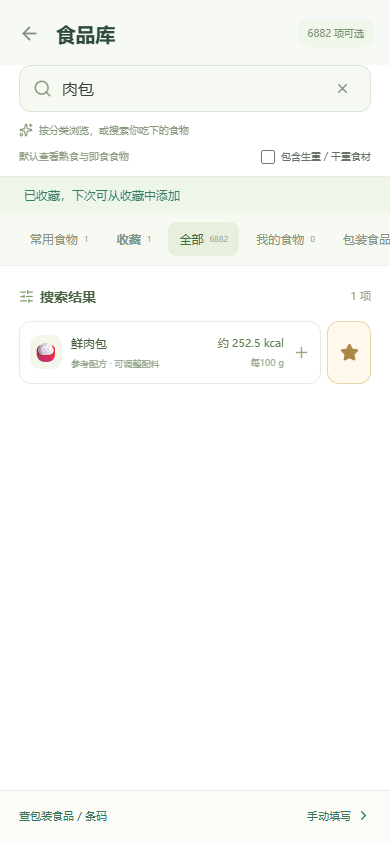
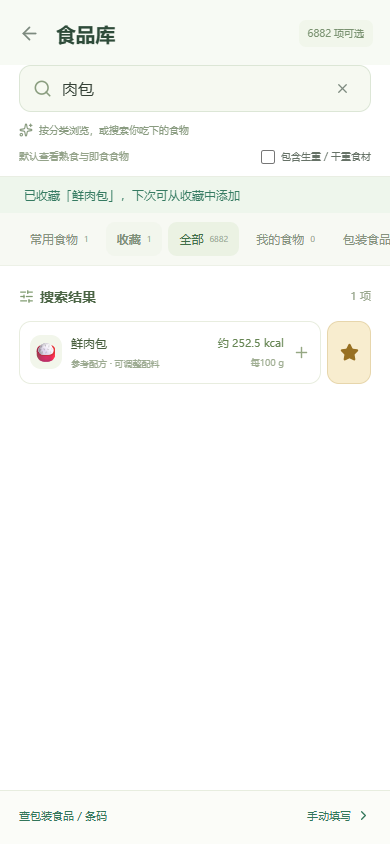
chore(release): 准备0.11.20测试版与交互回归说明

Changed region(s): [[0.1846, 0.2156, 0.6154, 0.2464], [0.8308, 0.3697, 0.9538, 0.4621]]

diff --git a/README.md b/README.md
@@ -2,9 +2,11 @@
 
 想对照源码学习，从 [源码学习指南](docs/development-guide.md) 开始：包含目录分工、技术用途、照片/文字记餐调用链、数据库事务和安卓工程；再看 [前端逐步讲解](docs/frontend-guide.md)。关键源码旁已补中文注释，可边读指南边打开对应函数。
 
-返回、日历、资料同步、收藏等局部说明已迁到源码注释；部署、模型接入、数据来源与许可等重要说明保留。当前IndexedDB结构版本5，备份格式版本10，手环预算采用超出常规活动的差额规则。
+返回、日历、资料同步、收藏等局部说明已迁到源码注释；部署、模型接入、数据来源与许可等重要说明保留。当前IndexedDB结构版本6，备份格式版本11，手环预算采用超出常规活动的差额规则。
 
 ## 当前版本与历史更新
+
+**0.11.20-test（versionCode 43）：照片随餐次保存，统一操作反馈。** 餐次缩略图可点开、放大，多图可以切换；编辑保留，删除可撤销，再记一餐不带旧照片。v11备份包含压缩照片，兼容旧格式。常用库收藏、备份、模型切换、删除与目标保存补齐进行中/成功/失败反馈，弹窗内提示可见可点。[照片说明](docs/meal-photos.md) · [交互检查](docs/interaction-feedback.md)。
 
 **0.11.19-test（versionCode 42）：重做整个设置页。** 首页集中展示实际选用模型、食物与数据、版本与说明入口，详细教程、备份和更新操作按需打开。手机模型管理支持直接切换已有型号，沿用Key且不测试模型；逐层返回保留入口焦点与滚动位置。[设置说明](docs/web-settings.md)。
 
@@ -184,7 +186,7 @@ QWEN_MODEL=qwen3.7-flash
 - 区间统一按每 100 g 保存，按食物重量换算整份。例如参考粥普通档 60～90 kcal/100 g，300 g 的区间为 180～270 kcal，记账中值为 225 kcal。这是应用参考情景，不是所有粥的标准，更不是模型测量精度。历史保存当时的档位；下一次新识别同名食物重新默认普通档。
 - 真实识别的 AI 缺库条目只有在确认保存后，才与餐食一同写入个人估算库；未保存的草稿和 Mock 数据不会污染这份库。库里的数值始终标注估算，不会加入 USDA 数据或共享给别人。
 - 体重页每天记录一次体重，支持修改、删除和设置目标。
-- 设置页支持 JSON 导出与完整恢复。当前备份版本10，兼容版本1～9；保留个人食品与收藏、日常单位估重、餐食标签与摄入份量、个人资料、目标快照、运动、饮水和个人估算库。恢复前校验并显示数量，确认后事务性替换。
+- 设置页支持 JSON 导出与完整恢复。当前备份版本11，兼容版本1～10；保留个人食品与收藏、日常单位估重、餐食标签与摄入份量、个人资料、目标快照、运动、饮水和个人估算库。恢复前校验并显示数量，确认后事务性替换。
 - 浏览器清理、隐私模式、换设备、换浏览器或换网址会影响本地数据。`127.0.0.1` 与 `localhost`、不同端口也是不同存储空间；定期导出备份。
 - 图片只用于本次识别，应用不把照片保存进 IndexedDB、上传目录或日志。Gemini 使用内联图片及 `store:false`；免费服务仍可能用输入和输出改进 Google 产品。
 

diff --git a/docs/interaction-feedback.md b/docs/interaction-feedback.md
@@ -1,0 +1,18 @@
+# 操作反馈检查
+
+本轮按页面与操作路径核查，区别导航、筛选等立即可见的变化，以及收藏、保存、删除、连接等需要等待结果的操作。不会给每个导航按钮都增加成功提示。
+
+- 常用食物库：星标/取消星标显示所操作食物名称，数据库提交后才改变状态；进行中显示转圈并阻止重复提交。保存失败保持原状态并允许重试。移除与撤销继续保留，并让全局提示出现在当前弹窗内。
+- 食品选择器：收藏提示包含具体名称，正在操作的星形按钮显示加载状态，已收藏有填充图标与底色，保留`aria-pressed`和错误说明。
+- 餐次：保存已有等待状态与失败草稿保护；补上重复保存防护。删除有等待状态，成功后可撤销，照片随记录一起恢复。打开编辑、复用、查看图片均有对应可见界面。
+- 模型：切换时显示进行中；切换成功显示文字反馈；失败还原原选择。原生设置重新读取实际状态后才报告切换成功。原有测试/保存/删除/连接的操作状态、错误和敏感信息保护继续保留，连接补上重复提交防护。
+- 设置：备份导出、读取、恢复分别显示等待文字，处理时禁用重复操作和关闭入口。个人估算删除显示对应条目的加载状态，错误在当前弹窗内可见。
+- 包装库：保留条码查询、相片读码、保存、移除的加载和结果说明；新增全局提示以避免滚动后看不到结果，保存按钮显示进行中，避免旧错误掩盖新成功。
+- 体重与目标：补上目标保存、删除的等待状态与重复提交防护，保存期间禁用对应输入，避免结果返回时清掉新输入。目标页、饮水和运动已有提交状态、结果与撤销路径，纳入浏览器回归。
+- 取景、日历、日期选择、份量、分组、主导航：保留现有选中/展开/页面变化与加载、错误提示。统一可用按钮的按压阴影和键盘焦点；按压不使用会改变包含块的滤镜，以免破坏食物卡片的整卡详情入口。
+
+原全局toast在原生`dialog.showModal()`下方，即使z-index很大仍被顶层遮挡。`AppToast`随弹窗开关移动到当前最上层dialog内部，进入弹窗焦点循环；普通页面仍放在body。弹窗内提示占独立布局行，避免盖住保存、加入或关闭按钮。长食物名称可换行，关闭与撤销保留可点击空间。
+
+回归不只断言文字存在，还通过`elementFromPoint`检查提示位于实际点击层，点击撤销验证数据恢复；通过模拟慢存储、QuotaExceededError检查忙碌状态、重复点击与失败不误报成功。对应`PersonalFoodFeedback.test.ts`、`meal-photos-feedback.spec.ts`及现有`interaction`、`personal-foods`、`food-library`、`settings`、`personal-models`、`packaged-food`等浏览器用例。
+
+本版验证：490项单元/接口测试、20项原生策略检查；Chrome手机/桌面与Edge覆盖156项源页面场景，最终独立APK资源另验证15项场景。真实Android安装、相机硬件、软键盘与系统分享仍需真机验收。

diff --git a/docs/wellness.md b/docs/wellness.md
@@ -6,7 +6,7 @@
 
 包装食品按原标签与实际摄入计算，同样进入已知摄入与剩余预算；摄入量或热量仍缺失时继续提示。[包装食品教学](packaged-food.md)
 
-当前支持俯卧撑按个数记录和手环当天累计。IndexedDB结构版本5，备份格式10，可读1～10。俯卧撑与手环规则已写入 [wellness.ts](../packages/shared/src/wellness.ts) 和 [PushupQuickEntry.vue](../packages/web/src/components/PushupQuickEntry.vue)；手环只增加超过常规活动预留的差额，原始活动读数另行保存。
+当前支持俯卧撑按个数记录和手环当天累计。IndexedDB结构版本6，备份格式11，可读1～11。俯卧撑与手环规则已写入 [wellness.ts](../packages/shared/src/wellness.ts) 和 [PushupQuickEntry.vue](../packages/web/src/components/PushupQuickEntry.vue)；手环只增加超过常规活动预留的差额，原始活动读数另行保存。
 
 运动目录已从6项扩充到32项，按5类选择，包含跳绳、球类、游泳、瑜伽和力量训练。原有编号和MET不变，新项目沿用活动能量公式；详见[项目与来源教学](catalog-expansion.md)。
 
@@ -75,7 +75,7 @@
 
 每个日期第一次保存记录时冻结该日资料、目标和体重来源。修改资料更新今日预算，已有其他历史日期保持当时快照。补充或删除体重会更新称重当天与今日的体重计算来源，不改其他历史日期或运动记录当时的体重与 kcal。不存在对应历史体重时，不借用未来体重；未保存的日期预算显示为当前资料预览，不能冒充历史实测。
 
-备份当前为版本10，包含本页记录、个人资料与每日计划，还包括包装标签、份量、个人食品和收藏；可读版本1～10，旧格式缺少的表补空。恢复是完整替换，旧文件可能清空当前文件不含的新增数据，因此先预览并确认。任一步失败整体回滚；Key、访问凭证和照片不进入备份。
+备份当前为版本11，包含本页记录、个人资料与每日计划，还包括包装标签、份量、个人食品和收藏；可读版本1～11，旧格式缺少的表补空。恢复是完整替换，旧文件可能清空当前文件不含的新增数据，因此先预览并确认。任一步失败整体回滚；备份包含已保存的餐次照片；Key和访问凭证仍不进入备份。
 
 ## 验证
 

diff --git a/docs/development-guide.md b/docs/development-guide.md
@@ -122,7 +122,7 @@ form.append('image', file)
 
 浏览器生成 multipart boundary，不能手动设置 Content-Type。客户端用 AbortController 限时，服务端上游也有限时；都需要 finally 清理定时器或并发令牌。
 
-前端压缩目标为最长边1280px、文件不超过1MB；服务端另限上传2MB、解码1000万像素，核对签名和MIME，拒绝动画后重编码。两个限制属于不同阶段。照片只参与本次内存流程，不进入餐食表和JSON备份。
+前端压缩目标为最长边1280px、文件不超过1MB；服务端另限上传2MB、解码1000万像素，核对签名和MIME，拒绝动画后重编码。两个限制属于不同阶段。照片压缩后由用户确认保存餐次，进入独立 mealPhotos 表和 v11 JSON 备份；服务端仍仅在内存处理图片。
 
 prepareRecognition 对 foods 做 map：每项保留自己的估重，不能平均整盘重量，也不能把一道菜的可见配料再次记成摄入。包装标签优先；普通条目在 matchedEntry 中先配方，再基础库，再同名个人估算和本次AI候选。旧个人单值没有有效热量三档时，本次有效三档可以优先。
 
@@ -195,7 +195,7 @@ await database.transaction('rw', [database.meals, database.estimatedFoods,
 
 保存食品库与保存一餐是独立动作。再次添加个人食品时复制并生成新ID；收藏不直接增加摄入。公共库项目移除后仍可用收藏快照或当前记录快照。
 
-当前 **IndexedDB结构版本5，JSON备份格式版本10**，分别看 ShikeDatabase 与 backupSchema。数据库名称 shike-local-v1 是既有名字，不是当前结构版本。备份可读1～10，先统一转10，检查重复主键、同日重复累计等，再事务性替换；旧备份缺表补空，因此恢复是整体替换，不是合并。
+当前 **IndexedDB结构版本6，JSON备份格式版本11**，分别看 ShikeDatabase 与 backupSchema。数据库名称 shike-local-v1 是既有名字，不是当前结构版本。备份可读1～11，先统一转11，检查重复主键、同日重复累计等，再事务性替换；旧备份缺表补空，因此恢复是整体替换，不是合并。
 
 数据按origin隔离，协议、主机、端口变化均可能换存储空间。localhost与127.0.0.1不共享记录，电脑和手机也不自动同步。
 

diff --git a/docs/meal-photos.md b/docs/meal-photos.md
@@ -1,0 +1,15 @@
+# 餐次照片
+
+从0.11.20-test起，拍照识别保存餐次后，记录中显示照片缩略图。点击可查看、放大和还原；图片聊天保存的一餐最多保留最近3张相关图片，可前后切换。保留的是识别用压缩JPEG，最长边1280px、单张不超过1MB，已通过Canvas重编码去除EXIF/GPS；不是相机的原始大文件。
+
+照片仅保存在当前设备，不自动同步或写入系统相册。模型调用仍按已有流程将图片交给用户选定的提供商，服务端不新增照片存储。旧版本餐次没有保存照片，无法补回。
+
+编辑已有餐次保留原照片；更换照片或点击“移除照片”在确认保存后生效。取消编辑不写入。复用餐次只带入食物与份量，不会把旧照片当成本餐照片。删除餐次同时删除照片，成功提示里的“撤销”恢复两者。
+
+IndexedDB升级到结构6，新增`mealPhotos`表（`id,mealId`），餐次数据不嵌入Base64，首页只读取照片所属餐次的索引。仅当前日期的照片组件订阅并加载对应图片，打开大图不调用模型。照片保存、替换、删除与餐次在同一事务内执行，存储失败回滚；多图用独立`position`保留顺序。
+
+JSON备份升级为v11，包含照片。导入兼容v1～v10，旧格式补空照片表；完整恢复会替换已有照片，因此界面明确提醒先导出当前备份。备份文件上限100MB，导入和导出均检查UTF-8大小。校验拒绝远程URL、非JPEG、超过1MB的单图、重复ID/序号、孤立照片与每餐超过3张。
+
+回归入口：`packages/web/tests/meal-photos.test.ts`验证事务、失败回滚、删除、备份与v5原地升级；`tests/e2e/meal-photos-feedback.spec.ts`验证刷新查看、放大、编辑、复用、删除撤销与真实JSON往返；`tests/e2e/meal-assistant.spec.ts`覆盖图片直接保存及转详细编辑的两条路径。测试使用合成照片和Mock/模拟原生插件，不代表真实模型准确性或Android真机验收。
+
+本版验证：490项单元/接口测试、20项原生策略检查；Chrome手机/桌面与Edge覆盖156项源页面场景，最终独立APK资源另验证15项场景。真实Android安装、相机硬件、软键盘与系统分享仍需真机验收。

diff --git a/docs/meal-assistant.md b/docs/meal-assistant.md
@@ -10,7 +10,7 @@
 4. 预览中可修改数量、移除食物；需要换食品库、改每100g营养或核对包装时，点击“详细编辑”，转到现有餐食编辑面板。
 5. 点击“确认保存”才写入IndexedDB。重复点击不会创建多条。成功后清掉待提交草稿；再描述食物会建立新记录，避免把上次早餐重复记账。
 
-关闭悬浮窗再打开，同次运行中的聊天和草稿还在；刷新或退出会清掉聊天草稿，已经保存的饮食记录保留。聊天内容不加入饮食备份，导出仍只包含记录、设置和食品快照。
+关闭悬浮窗再打开，同次运行中的聊天和草稿还在；刷新或退出会清掉聊天草稿，已经保存的饮食记录保留。聊天文字不加入饮食备份；确认保存时，本餐相关的最多3张压缩照片进入餐次照片表和v11备份。
 
 ## 按时间预选餐次
 
@@ -71,7 +71,7 @@ const request = {
 
 安卓走Capacitor插件的`describeMeal`，Key沿用Keystore配合AES-GCM的本机加密配置。原生层只向白名单平台发送请求，不向网页返回Key；同样共用请求计数、单并发、超时、响应大小限制和禁止重定向策略。兼容平台使用Chat Completions，GLM旧型号保持提示词加结果校验；Gemini用Interactions、结构化输出及`store:false`。不创建云端上传文件，不自动轮换Key或转付费模型。模型费用仍以所选服务商为准。
 
-服务商会收到当前描述、未保存草稿和最近上下文，应按其政策处理；App不把聊天和照片写入本地记录数据库或备份。Vue以纯文本显示模型回复，不执行模型返回的HTML、脚本或工具指令。保存动作始终由用户按钮触发。
+服务商会收到当前描述、未保存草稿和最近上下文，应按其政策处理；聊天问答只留在会话内存；用于当前记餐草稿的最近3张压缩照片，在用户确认保存后写入本机餐次照片表和v11备份。新建一餐不会沿用上一餐照片。Vue以纯文本显示模型回复，不执行模型返回的HTML、脚本或工具指令。保存动作始终由用户按钮触发。
 
 ## 图片与连续问答
 

diff --git a/docs/camera-guide.md b/docs/camera-guide.md
@@ -14,7 +14,7 @@
 
 右上角问号提供拍摄说明及实际采集尺寸，设备支持时启用连续自动对焦；存在多个摄像头时可切换。取景铺满可用区域，不拉伸图像。设备报告支持连续补光时才显示补光灯。辅助框是构图提示。照片按屏幕可见范围中心裁切，与取景保持一致，拍照前应让所需食物和完整营养字段留在画面内。相机权限被拒绝、没有相机或相机被占用时，会显示具体提示，并保留系统相机与相册入口。
 
-取景页进入后台时停止视频轨道，回来后点击「继续拍摄」。退出取景页也关闭轨道，不在后台继续采集。捕获的照片只在当前编辑流程的内存中保留，不写入饮食历史、备份或照片库。
+取景页进入后台时停止视频轨道，回来后点击「继续拍摄」。退出取景页也关闭轨道，不在后台继续采集。拍摄时照片仅在内存处理；确认保存餐次后，经压缩、去除 EXIF/GPS 的照片保存在本机独立表中，可从餐次缩略图查看并放大，也随 v11 备份导出。不会自动写入系统相册。旧记录未保存的照片无法补回。
 
 APK内的页面和食物库已经内置，电脑可关闭。AI识别和首次查询OFF仍需要手机联网；配置入口为设置中的手机自配Key。网页通过局域网HTTP访问时，浏览器可能禁止实时相机，此时使用系统相机或相册；APK使用本地HTTPS来源，不依赖电脑IP。
 

diff --git a/docs/packaged-food.md b/docs/packaged-food.md
@@ -12,7 +12,7 @@
 4. 展开“核对／修正标签数字”，可更正能量、原单位、蛋白质、脂肪、碳水、每份大小和整包净含量。未拍到或读不清的字段留空；不要把 NRV%／%DV 当成克数或热量填入。
 5. 选择餐次、日期并保存。历史记录保留当时的标签与摄入份量，可继续编辑；修改其他食物库数据不会改变它。
 
-只拍商品正面或广告文字，不能可靠获得完整营养表，AI 不凭品牌记忆补营养值；此时提示补拍或手填。条形码请走独立「包装食品库」入口。照片仅在本次内存中使用，不进入历史和备份。
+只拍商品正面或广告文字，不能可靠获得完整营养表，AI 不凭品牌记忆补营养值；此时提示补拍或手填。条形码请走独立「包装食品库」入口。条码照片仅用于本机读码；从记餐编辑器识别营养表并保存餐次时，压缩照片会保留到餐次历史和 v11 备份。
 
 普通餐食继续使用食物库／参考配方／带假设的 AI 三档估算。包装走独立的“包装标签 · AI 读取”分支，优先于同名食物库，不套普通餐食的少糖／多油三档，也不自动加入个人 AI 估算库。用户更正后的标注显示“已手动修改”。
 

diff --git a/docs/native-camera.md b/docs/native-camera.md
@@ -31,7 +31,7 @@ APK新增`@capgo/camera-preview@8.12.5`原生适配器，Android侧使用CameraX
 
 ## 隐私与存储
 
-原生拍摄使用`storeToFile:false`、`saveToGallery:false`，照片经内存JPEG返回；不写入相册或饮食备份。明确关闭录音、定位、时间及位置水印。应用Manifest合并时移除录音、定位和广泛存储权限；条码仍使用既有ZXing，不启用新增插件的MLKit自动模型下载。拍食物和营养表后的图片只交给用户选定的AI模型。
+原生拍摄使用`storeToFile:false`、`saveToGallery:false`，照片经内存JPEG返回；拍摄阶段不写入系统相册。用户确认保存餐次后，识别用压缩照片进入本机餐次照片表并随 v11 备份导出。明确关闭录音、定位、时间及位置水印。应用Manifest合并时移除录音、定位和广泛存储权限；条码仍使用既有ZXing，不启用新增插件的MLKit自动模型下载。拍食物和营养表后的图片只交给用户选定的AI模型。
 
 ## 代码路径
 

diff --git a/docs/ai-models.md b/docs/ai-models.md
@@ -55,7 +55,7 @@ if (!response.ok) throw new Error(payload.error.message);
 
 开发网页使用 `http://127.0.0.1:5180`，Vite 将 `/api` 代理到 3001 端口的 Node 后端，生产构建由 Node 同源提供页面。这也避免为浏览器开放宽松 CORS。
 
-后端收到的数据并不可信。文件扩展名 `.jpg` 或请求头 `image/jpeg` 不能证明文件真的是图片，食刻同时检查文件魔数并尝试解码。图片仅在内存使用；重编码去除 EXIF/GPS 后才发给模型，不写入磁盘或 IndexedDB。
+后端收到的数据并不可信。文件扩展名 `.jpg` 或请求头 `image/jpeg` 不能证明文件真的是图片，食刻同时检查文件魔数并尝试解码。服务端图片仅在内存使用；客户端重编码去除 EXIF/GPS 后才发给模型。用户确认保存餐次后，识别用压缩照片会保留在客户端本地 IndexedDB，服务端不存储照片。
 
 ## 2. 为什么有独立 Service
 

diff --git a/docs/web-settings.md b/docs/web-settings.md
@@ -21,7 +21,7 @@
 
 ## 备份与恢复
 
-点击首页“备份与恢复”进入详情，再导出JSON或选择备份文件。恢复前展示文件及条数，确认后完整替换本机记录、目标和个人食物；原有备份格式及餐食快照不变。饮食照片与模型Key不进入备份。建议恢复前导出当前记录。
+点击首页“备份与恢复”进入详情，再导出JSON或选择备份文件。恢复前展示文件及条数，确认后完整替换本机记录、目标和个人食物；v11备份包含已保存餐次的压缩照片，兼容v1～v10旧格式。照片也随记录整体替换；恢复旧备份会清空现有照片。模型Key不进入备份。建议恢复前导出当前记录。
 
 实现入口：[SettingsView.vue](../packages/web/src/views/SettingsView.vue)、[PersonalModels.vue](../packages/web/src/components/PersonalModels.vue)、[settings.css](../packages/web/src/settings.css)。
 
